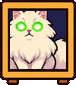
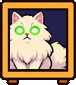
The crystal ball casts a spell at most once a minute: the cat's eyes glow and things lift

Changed region(s): [[0.1316, 0.1176, 0.8684, 0.8235], [0.1316, 0.4, 0.1842, 0.4941], [0.8158, 0.7765, 0.8684, 0.8235]]

diff --git a/js/fidgets.js b/js/fidgets.js
@@ -99,7 +99,17 @@ function ballToday(){return ballLog().looks.filter(l=>BALL_VISIONS[l[1]]).map(l=
 // which vision comes next: each is said once before any comes round again (the ones still to come are kept, shuffled, in localStorage)
 function ballNext(){let bag=[];try{bag=JSON.parse(localStorage.getItem(BALL_BAG)||'[]')}catch(e){}bag=Array.isArray(bag)?bag.filter(i=>Number.isInteger(i)&&i>=0&&i<BALL_VISIONS.length):[];
  if(!bag.length)bag=BALL_VISIONS.map((_,i)=>i);const k=Math.floor(Math.random()*bag.length),i=bag.splice(k,1)[0];try{localStorage.setItem(BALL_BAG,JSON.stringify(bag))}catch(e){}return i;}
-function ballGaze(){const now=performance.now();if(now-ballT<BALL_MS||typeof BALL_VISIONS==='undefined')return;ballT=now;const i=ballNext(),T=Object.keys(BALL_TINT).concat([null]);
+/* THE SPELL (Jackie, Nov 26: "maybe whenever we use the crystal ball, his eyes turn green and things float, but only once every like
+   minute"). When the ball is used, and at most once a minute, for as long as the ball's vision lasts: the cat's eyes glow green if it
+   is sitting up (its glowing pose, js/cat.js), the things in the room lift a few pixels and bob (whole pixels), and a few green
+   motes drift up. Then everything settles back on its own spring. */
+const SPELL_GAP=60000,SPELL_LIFT=5;let spellT=-1e9;
+function spellOn(){return performance.now()-spellT<BALL_MS;}
+function spellStep(){if(!spellOn())return false;const u=(performance.now()-spellT)/1000;
+ FP.forEach((p,i)=>{const up=Math.min(1,u/.6)*(SPELL_LIFT+i%3);p.oy=-Math.round(up+Math.sin(u*2.2+i*1.7));p.vy=0;p.ox=0;p.vx=0;});
+ if(Math.random()<.18){const p=FP[Math.floor(Math.random()*FP.length)];fBits.push({x:p.x+rnd(0,p.w),y:p.y+p.h-rnd(0,20),vx:rnd(-.2,.2),vy:rnd(-.9,-.4),g:-.004,sway:true,life:rnd(70,120),c:Math.random()<.5?'#39ff14':'#b6ffa8'});if(fBits.length>160)fBits.shift();}
+ return true;}
+function ballGaze(){const now=performance.now();if(now-ballT<BALL_MS||typeof BALL_VISIONS==='undefined')return;ballT=now;if(now-spellT>=SPELL_GAP)spellT=now;const i=ballNext(),T=Object.keys(BALL_TINT).concat([null]);
  ballCur={i,tints:Array.from({length:8},()=>T[Math.floor(Math.random()*T.length)]),eyes:Math.random()<BALL_EYES};sfx('chime');
  if(!st.ballMet){st.ballMet=1;tell('The crystal ball has visions of things to come.',{kind:'info',key:'ballHi'});}
  setTimeout(()=>tell(ballSay(BALL_VISIONS[i]),{kind:'info',key:'ballSign',now:true,long:true}),BALL_MS*.55);
@@ -132,8 +142,9 @@ cv.addEventListener('pointermove',e=>{const [x,y]=toGame(e);
  fDrag.last={x,y};});
 function fspring(p){p.vx+=-p.k*p.ox;p.vy+=-p.k*p.oy;p.vx*=1-p.d;p.vy*=1-p.d;p.ox+=p.vx;p.oy+=p.vy;if(Math.abs(p.ox)<.3&&Math.abs(p.vx)<.2){p.ox=0;p.vx=0;}if(Math.abs(p.oy)<.3&&Math.abs(p.vy)<.2){p.oy=0;p.vy=0;}}
 function fidgetStep(){
+ const spell=spellStep();
  for(const p of FP){
-  fspring(p);if(p.puff&&p.lastPoke&&performance.now()-p.lastPoke>8000)p.dust=Math.min(10,p.dust+.02);}
+  if(!spell)fspring(p);if(p.puff&&p.lastPoke&&performance.now()-p.lastPoke>8000)p.dust=Math.min(10,p.dust+.02);}
  for(const s of fSpines){s.vy+=-.14*s.oy;s.vy*=.9;s.oy+=s.vy;}fSpines=fSpines.filter(s=>Math.abs(s.oy)>.3||Math.abs(s.vy)>.2);
  for(const v of FVINES){v.vx+=-.1*v.ox;v.vx*=.9;v.ox=clamp(v.ox+v.vx,-3,3);}
  for(const b of fBits){b.vy+=b.g!=null?b.g:.12;b.vx*=.98;if(b.sway)b.vx+=Math.sin(b.life/9)*.06;b.x+=b.vx;b.y+=b.vy;const fl=b.coin?coinFloor(b):b.fl;if(fl!=null&&b.y>=fl&&b.vy>0){b.y=fl;b.vy=b.vy>1?-b.vy*.45:0;b.vx*=.7;}b.life--;}fBits=fBits.filter(b=>b.life>0);

diff --git a/js/cat.js b/js/cat.js
@@ -10,7 +10,7 @@ const CATF={};['curl1','curl2','loaf1','loaf2','side1','side2','sit1','sit2','pe
 const OLD_CAT=true;
 /* THE WHITE CAT (Jackie, Nov 26: "now lets make the cat from house"): a white long-haired cat after the one in the film House, cut from
    Jackie's sheet (tools/house_cat_cut.py) pose for pose at the old cat's size, so it uses the old cat's code. CAT_DIR='old_cat' brings the
-   orange cat back. The white cat's petted frames have no back-scratcher drawn in, and there is a spare frame with glowing green eyes. */
+   orange cat back. The white cat's petted frames have no back-scratcher drawn in, and there is a frame with glowing green eyes for the crystal ball's spell. */
 const CAT_DIR='house_cat';
 if(OLD_CAT){const OLD=['curl1','curl2','loaf1','loaf2','side1','side2','sit1','sit2','pet1','pet2','walk1','walk2','yawn',
   'stand_side','stalk','pounce','playbow','leap_r','leap_l','groom1','groom2','annoyed','back','belly','eat']; // the second row: Jackie's extra poses in the old cat's style (Nov 18; tools/tofu_cut.py)
@@ -101,7 +101,8 @@ function catUpdate(dt){if(cat.hold)return; // held still by the debug Nudge tool
   cat.sc+=((cat.path.length?catSc(DEPTH.floor):CAT_SPOTS[cat.to].sc)-cat.sc)*Math.min(1,dt*4);}
  // company: a cat napping near the plant keeps it a little company
  if(cat.state==='sleep'&&st.started&&st.stage>=4&&!st.night){const b=plantBox();if(Math.abs(cat.x-(b.x+b.w/2))<b.w*.9+120&&Math.abs(cat.y-SPOT[spotKey()].y)<160)st.needs.attention=Math.max(0,st.needs.attention-dt*.002);}}
-function catFrame(){if(cat.force&&CATF[cat.force])return CATF[cat.force]; // debug: hold any frame
+function catFrame(){const f=catFrame0();return CATF.glow&&(f===CATF.sit1||f===CATF.sit2)&&typeof spellOn==='function'&&spellOn()&&!cat.force?CATF.glow:f;} // the crystal ball's spell: a sitting cat's eyes glow green (js/fidgets.js)
+function catFrame0(){if(cat.force&&CATF[cat.force])return CATF[cat.force]; // debug: hold any frame
  if(cat.state==='sleep')return CATF[{curl:'curl1',loaf:'loaf2',side:'side1'}[cat.pose]]; // asleep: ONE frame per pose (Jackie, calm-down); the breathing is done in code (catBreath)
  if(cat.state==='wake')return cat.t<1.2?CATF.yawn:CATF[T%2.4<.18?'sit2':'sit1']; // sit2 = a slow blink now and then
  if(cat.state==='sniff')return CATF.sit1;if(cat.state==='look')return CATF[T%3.4<.3?'sit2':'sit1'];

diff --git a/tools/house_cat_cut.py b/tools/house_cat_cut.py
@@ -28,7 +28,8 @@ def main():
     scale=218/cut['sit1'].shape[0]
     for n,px in cut.items():
         pm=px.astype(float);pm[...,:3]*=pm[...,3:]/255;h,w=px.shape[:2]
-        sm=np.asarray(Image.fromarray(pm.astype(np.uint8),'RGBA').resize((round(w*scale),round(h*scale)),Image.LANCZOS)).astype(float)
+        k=scale*cut['sit1'].shape[0]/h if n=='glow' else scale # the glowing pose was drawn a little bigger: it is made the sitting pose's height, so the cat does not grow when its eyes light
+        sm=np.asarray(Image.fromarray(pm.astype(np.uint8),'RGBA').resize((round(w*k),round(h*k)),Image.LANCZOS)).astype(float)
         A=sm[...,3:];rgb=np.where(A>0,sm[...,:3]*255/np.maximum(A,1),0).clip(0,255)
         out=Image.fromarray(np.dstack([rgb,np.where(A>=128,255,0)]).astype(np.uint8),'RGBA');out.save(os.path.join(OUT,'cat_'+n+'.png'),optimize=True);print(n,out.size)
 if __name__=='__main__':main()

diff --git a/DECISIONS.md b/DECISIONS.md
@@ -2,6 +2,17 @@
 
 Everything Jackie has decided about Monster Plant, with the reason. Add new entries at the top. The rules that never change are in [RULES.md](RULES.md).
 
+### The crystal ball casts a spell, at most once a minute (Nov 26)
+
+- Jackie: "maybe whenever we use the crystal ball, his eyes turn green and things float, but only once every like minute".
+- When the ball is used, and no more than once a minute, for as long as its vision lasts: the cat's eyes glow green, the things in the room lift a few pixels and bob, and a few green motes drift up. Then everything settles.
+- The eyes glow only if the cat is sitting up, because the glowing pose is a sitting one. Asleep or walking, the cat does not change. The glowing pose is cut to the sitting pose's height so the cat does not grow.
+- The things lift only about five pixels: each is drawn again a little higher over the room's picture, so a higher lift would show the thing twice.
+
+### The moon plates have room round the moon (Nov 26)
+
+- Jackie: "i wish the moon in the photos in the moon thing had a little more room to breathe - the borders are touching parts". Each of the 28 engravings is cut with a wider margin of paper. A few plates still sit close to one edge, where the circle was found a little off centre.
+
 ### The viewfinder shows the whole photograph, for real this time (Nov 26)
 
 - Jackie: "the image in the viewfinder in the other room is still zoomed in weird". The earlier fix made the frame take the picture's shape, but the picture itself was still only the middle of each half of the card, so heads, feet and the edges of the moon were cut off.
